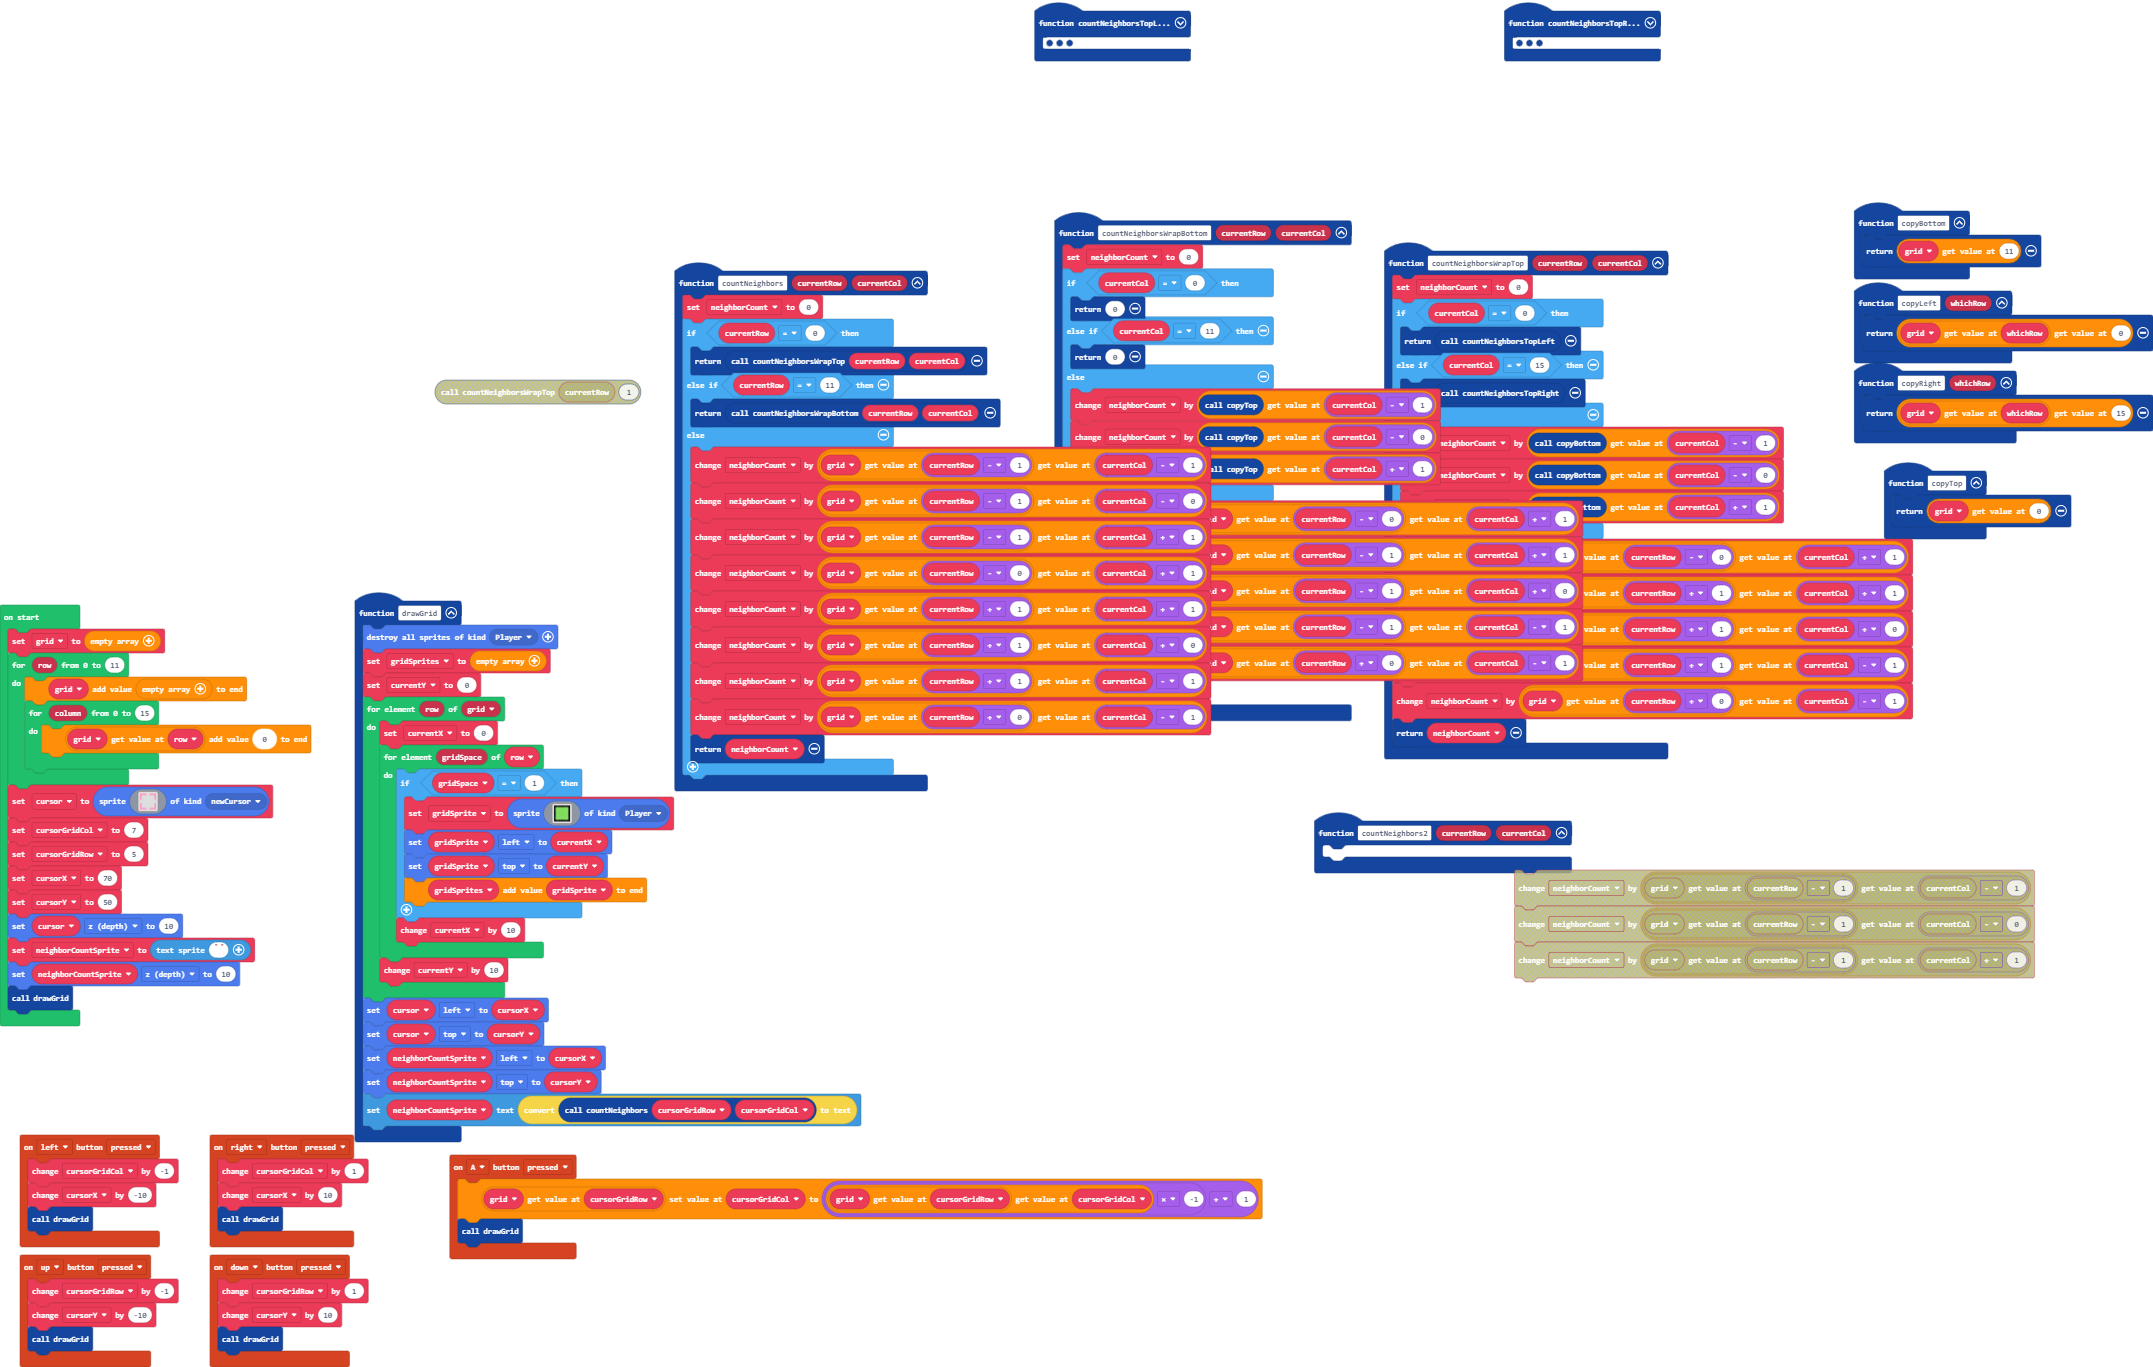
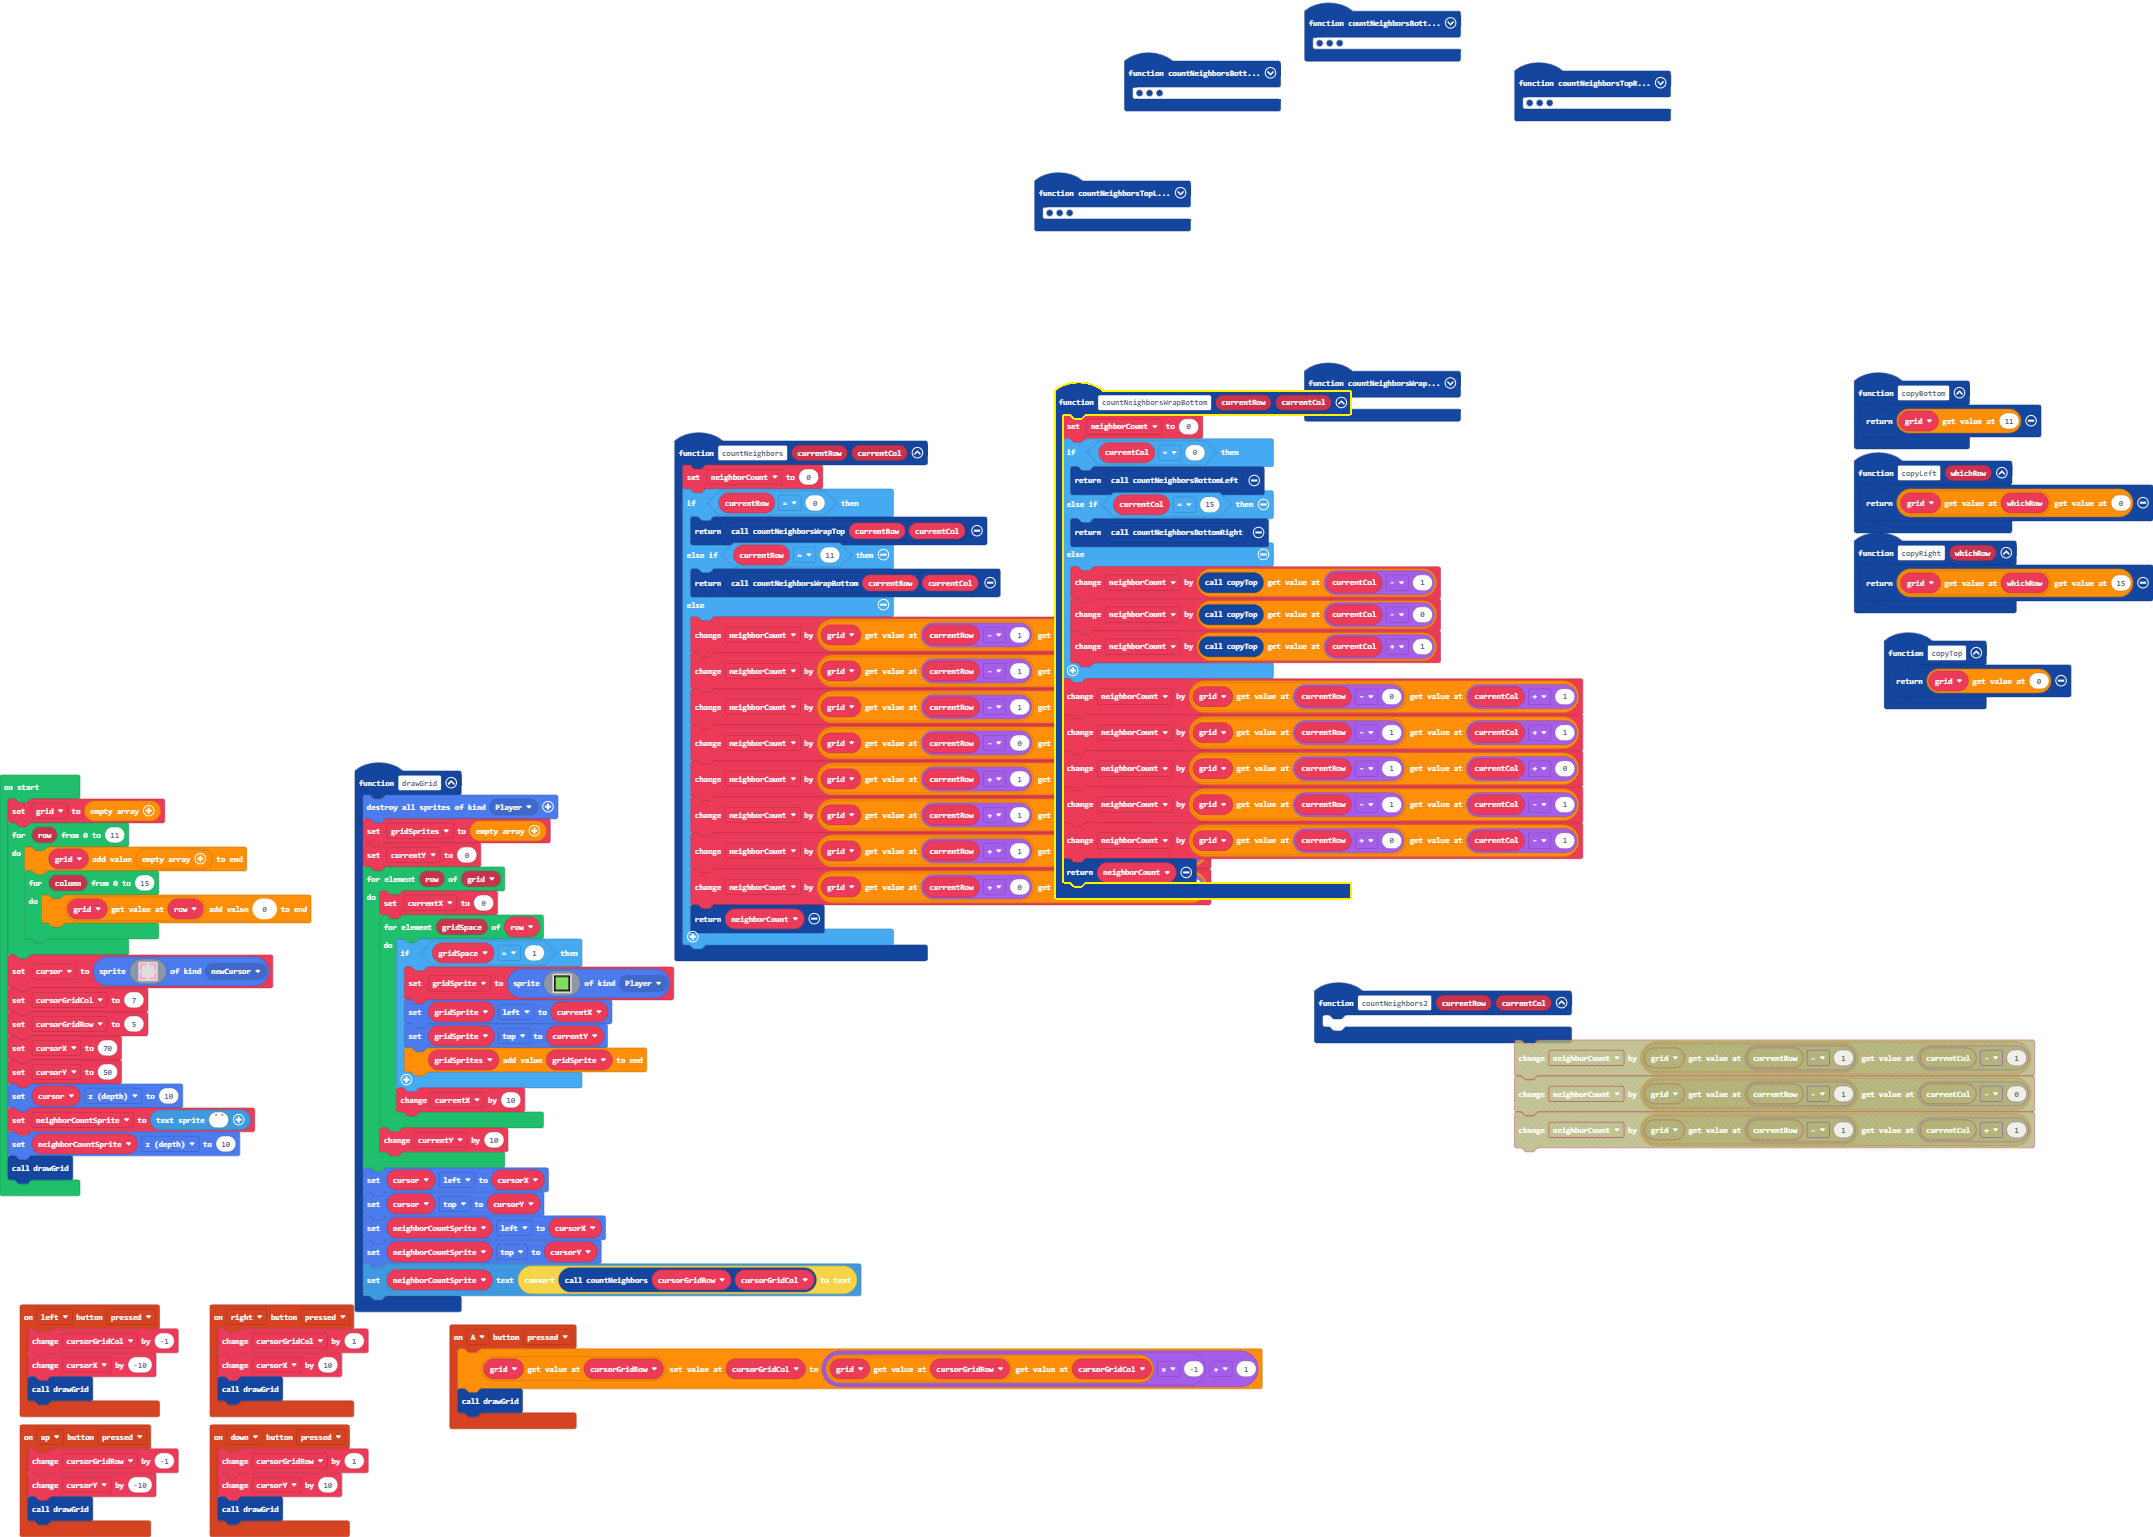
wrap bottom left and right

diff --git a/main.ts b/main.ts
@@ -7,6 +7,18 @@ controller.up.onEvent(ControllerButtonEvent.Pressed, function () {
     cursorY += -10
     drawGrid()
 })
+function countNeighborsBottomLeft () {
+    neighborCount = 0
+    neighborCount += grid[11 - 0][0 + 1]
+    neighborCount += grid[11 - 1][0 + 0]
+    neighborCount += grid[11 - 1][0 + 1]
+    neighborCount += copyRight(10)
+    neighborCount += copyRight(0)
+    neighborCount += copyRight(11)
+    neighborCount += copyTop()[0]
+    neighborCount += copyTop()[1]
+    return neighborCount
+}
 controller.A.onEvent(ControllerButtonEvent.Pressed, function () {
     grid[cursorGridRow][cursorGridCol] = grid[cursorGridRow][cursorGridCol] * -1 + 1
     drawGrid()
@@ -94,6 +106,18 @@ function countNeighborsTopLeft () {
     neighborCount += copyBottom()[1]
     return neighborCount
 }
+function countNeighborsBottomRight () {
+    neighborCount = 0
+    neighborCount += grid[11 - 0][15 - 1]
+    neighborCount += grid[11 - 1][15 - 1]
+    neighborCount += grid[11 - 1][15 + 0]
+    neighborCount += copyLeft(10)
+    neighborCount += copyLeft(0)
+    neighborCount += copyLeft(11)
+    neighborCount += copyTop()[15]
+    neighborCount += copyTop()[14]
+    return neighborCount
+}
 function countNeighbors (currentRow: number, currentCol: number) {
     neighborCount = 0
     if (currentRow == 0) {
@@ -135,9 +159,9 @@ function copyLeft (whichRow: number) {
 function countNeighborsWrapBottom (currentRow: number, currentCol: number) {
     neighborCount = 0
     if (currentCol == 0) {
-        return 0
-    } else if (currentCol == 11) {
-        return 0
+        return countNeighborsBottomLeft()
+    } else if (currentCol == 15) {
+        return countNeighborsBottomRight()
     } else {
         neighborCount += copyTop()[currentCol - 1]
         neighborCount += copyTop()[currentCol - 0]
@@ -153,11 +177,11 @@ function countNeighborsWrapBottom (currentRow: number, currentCol: number) {
 function copyTop () {
     return grid[0]
 }
-let neighborCount = 0
 let gridSprite: Sprite = null
 let currentX = 0
 let currentY = 0
 let gridSprites: Sprite[] = []
+let neighborCount = 0
 let neighborCountSprite: TextSprite = null
 let cursorY = 0
 let cursorX = 0
